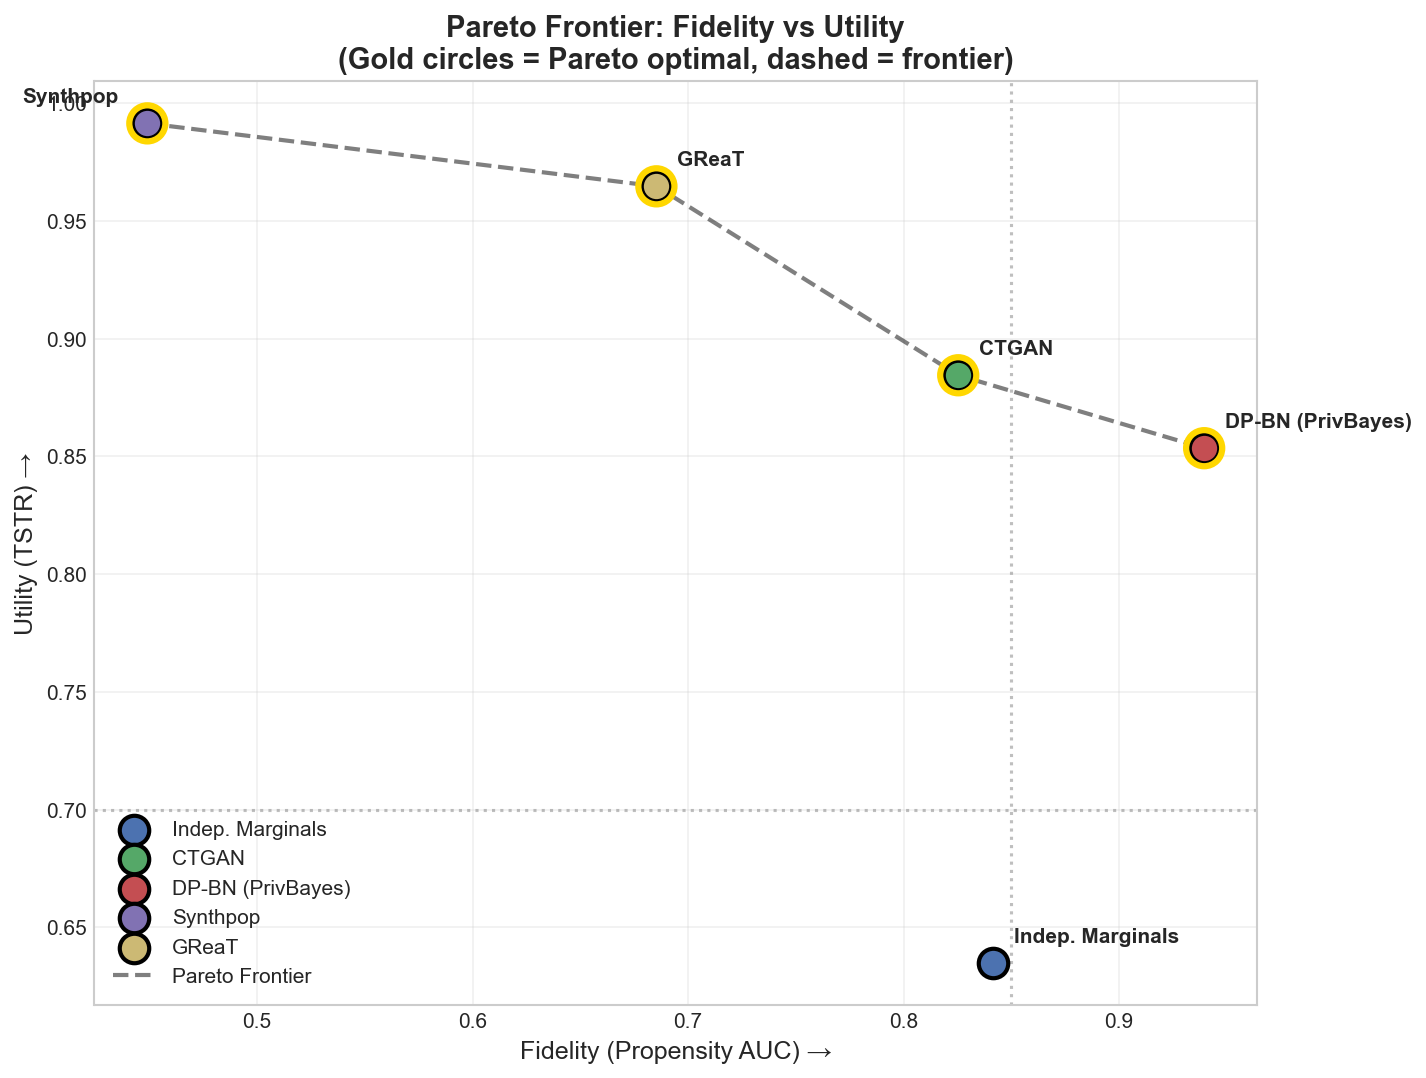
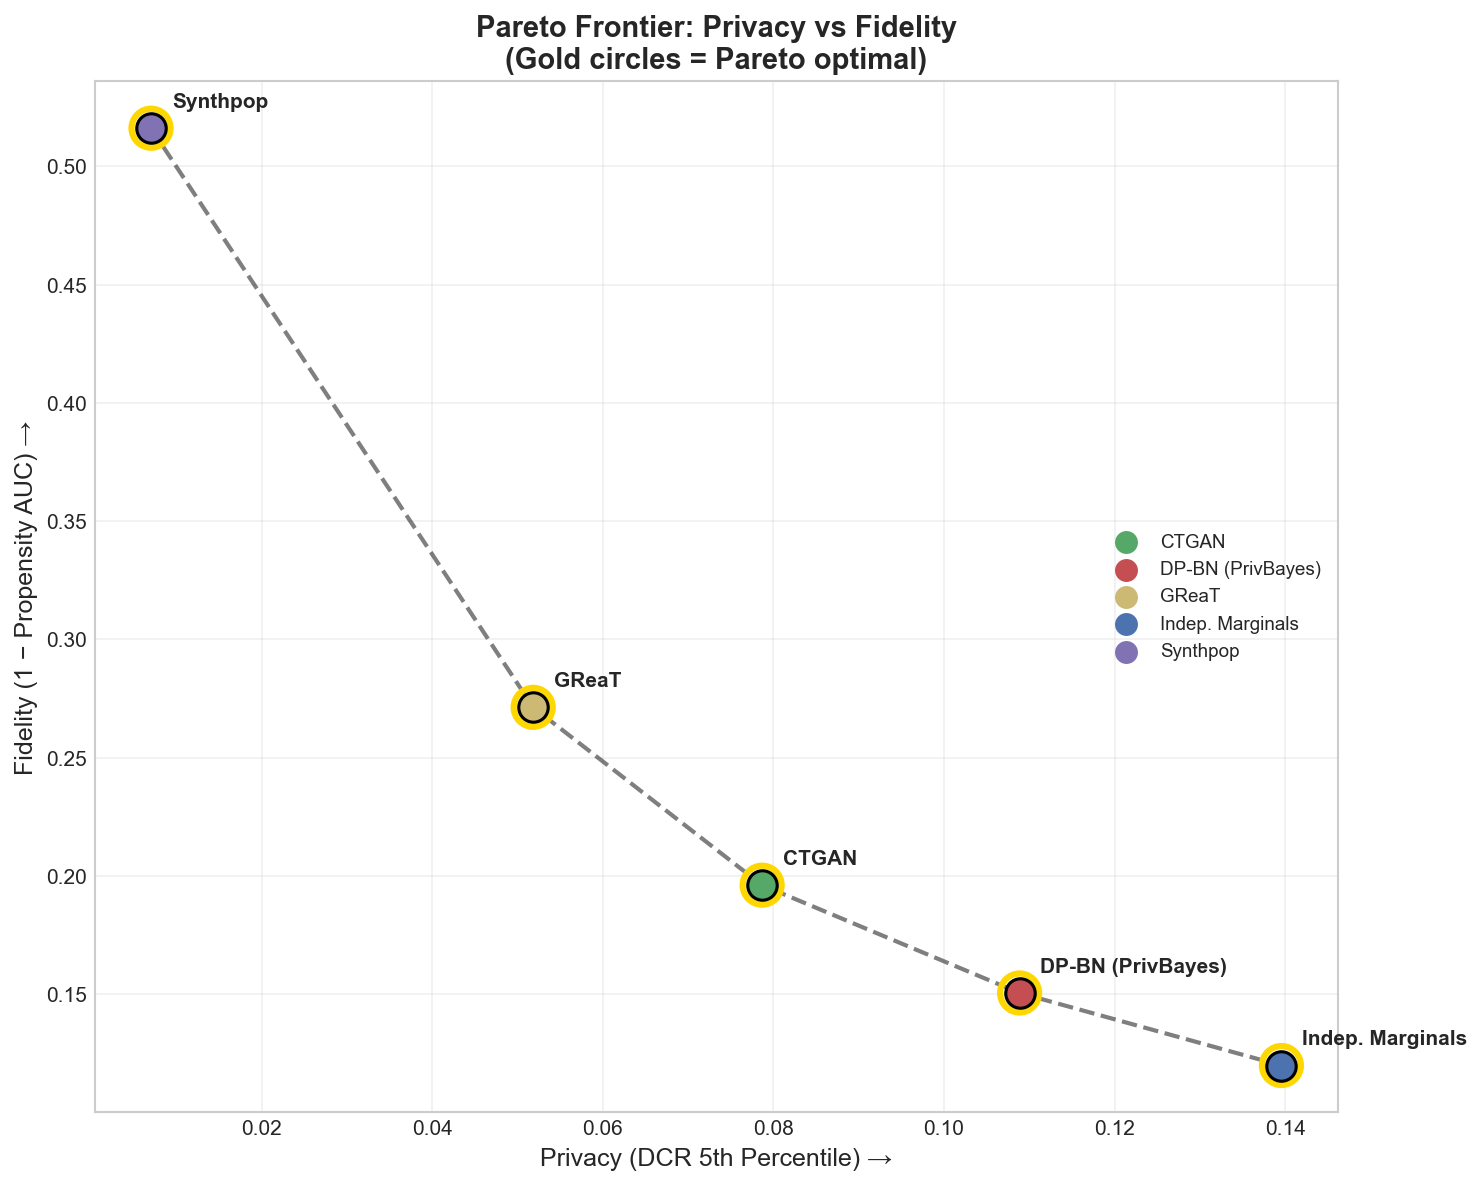
Update pareto frontier figure

diff --git a/tsd/analysis/figures.py b/tsd/analysis/figures.py
@@ -143,73 +143,76 @@ def generate_mada_profile_comparison(value_scores, output_dir):
 
 
 def generate_pareto_frontier(df, output_dir):
-    """Generate the Pareto frontier figure (Fidelity vs Utility)."""
+    """Generate the Pareto frontier figure (Privacy vs Fidelity).
+
+    Both axes use higher = better:
+      x-axis: Privacy (DCR 5th Percentile) — higher DCR = better privacy
+      y-axis: Fidelity (1 - Propensity AUC) — higher value = better fidelity
+    """
     import matplotlib.pyplot as plt
 
     plt.style.use("seaborn-v0_8-whitegrid")
-    summary = df.groupby("method").agg({"fidelity_auc": "mean", "utility_tstr": "mean"})
+    summary = df.groupby("method").agg({"fidelity_auc": "mean", "privacy_dcr": "mean"})
 
     fig, ax = plt.subplots(figsize=(10, 8))
 
     for method in summary.index:
-        fid = summary.loc[method, "fidelity_auc"]
-        util = summary.loc[method, "utility_tstr"]
+        priv = summary.loc[method, "privacy_dcr"]
+        fid = 1 - summary.loc[method, "fidelity_auc"]
 
-        ax.scatter(fid, util, s=200, c=COLORS[method], edgecolors="black", linewidth=1.5, zorder=3)
+        ax.scatter(
+            priv, fid, s=200, c=COLORS[method], edgecolors="black", linewidth=1.5, zorder=3
+        )
 
-        offset = (10, 10) if method != "synthpop" else (-60, 10)
+        offset = (10, 10) if method != "independent" else (10, -15)
         ax.annotate(
             METHOD_LABELS[method],
-            (fid, util),
+            (priv, fid),
             textcoords="offset points",
             xytext=offset,
             fontsize=10,
             fontweight="bold",
         )
 
-    # Identify Pareto-optimal methods
+    # Identify Pareto-optimal methods (higher on both axes = better)
     pareto_methods = []
     for method in summary.index:
-        fid = summary.loc[method, "fidelity_auc"]
-        util = summary.loc[method, "utility_tstr"]
+        priv = summary.loc[method, "privacy_dcr"]
+        fid = 1 - summary.loc[method, "fidelity_auc"]
         dominated = False
         for other in summary.index:
             if other == method:
                 continue
-            o_fid = summary.loc[other, "fidelity_auc"]
-            o_util = summary.loc[other, "utility_tstr"]
-            if o_fid <= fid and o_util >= util and (o_fid < fid or o_util > util):
+            o_priv = summary.loc[other, "privacy_dcr"]
+            o_fid = 1 - summary.loc[other, "fidelity_auc"]
+            if o_priv >= priv and o_fid >= fid and (o_priv > priv or o_fid > fid):
                 dominated = True
                 break
         if not dominated:
-            pareto_methods.append((fid, util, method))
+            pareto_methods.append((priv, fid, method))
 
     pareto_methods.sort(key=lambda x: x[0])
 
-    for fid, util, _method in pareto_methods:
-        ax.scatter(fid, util, s=350, facecolors="none", edgecolors="gold", linewidth=3, zorder=2)
+    for priv, fid, _method in pareto_methods:
+        ax.scatter(priv, fid, s=350, facecolors="none", edgecolors="gold", linewidth=3, zorder=2)
 
     if len(pareto_methods) > 1:
-        fids = [p[0] for p in pareto_methods]
-        utils = [p[1] for p in pareto_methods]
-        ax.plot(fids, utils, "k--", linewidth=2, alpha=0.5, zorder=1)
+        privs = [p[0] for p in pareto_methods]
+        fids = [p[1] for p in pareto_methods]
+        ax.plot(privs, fids, "k--", linewidth=2, alpha=0.5, zorder=1)
 
-    ax.set_xlabel("Fidelity (Propensity AUC) \u2192", fontsize=12)
-    ax.set_ylabel("Utility (TSTR) \u2192", fontsize=12)
+    ax.set_xlabel("Privacy (DCR 5th Percentile) \u2192", fontsize=12)
+    ax.set_ylabel("Fidelity (1 \u2212 Propensity AUC) \u2192", fontsize=12)
     ax.set_title(
-        "Pareto Frontier: Fidelity vs Utility\n(Gold circles = Pareto optimal)",
+        "Pareto Frontier: Privacy vs Fidelity\n(Gold circles = Pareto optimal)",
         fontsize=14,
         fontweight="bold",
     )
 
     for m in summary.index:
         ax.scatter([], [], c=COLORS[m], s=100, label=METHOD_LABELS[m])
-    ax.legend(loc="lower left", fontsize=9)
+    ax.legend(loc="center right", fontsize=9)
 
-    ax.axhline(y=0.7, color="gray", linestyle=":", alpha=0.5)
-    ax.axvline(x=0.85, color="gray", linestyle=":", alpha=0.5)
-    ax.set_xlim(0.4, 0.95)
-    ax.set_ylim(0, 1.1)
     ax.grid(True, alpha=0.3)
 
     plt.tight_layout()
